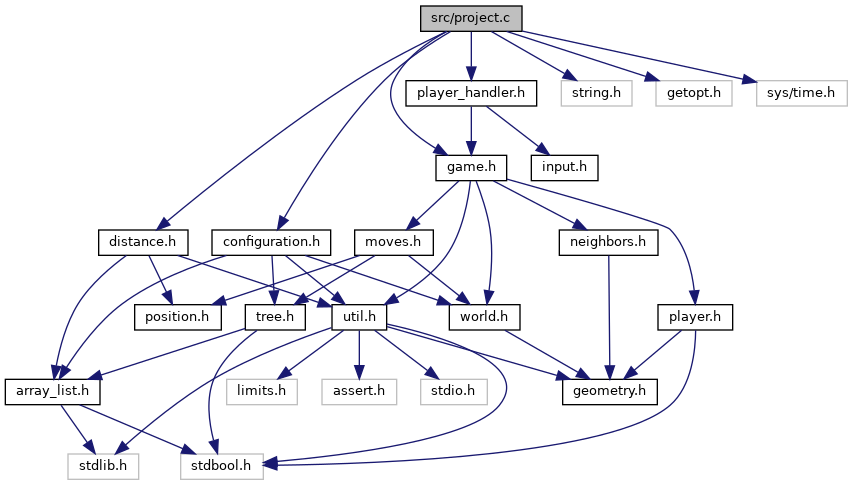
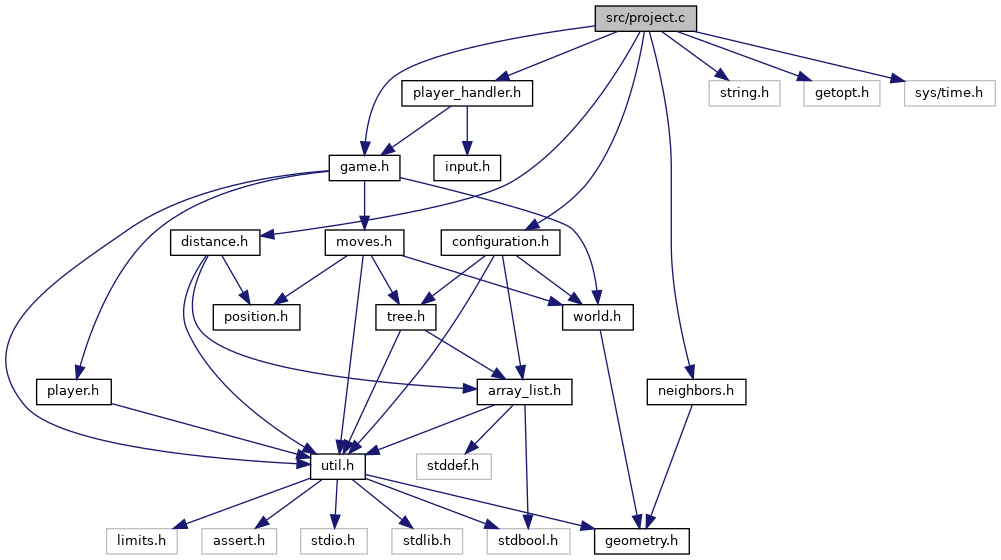
updated dep geah and more text

diff --git a/rapport/organisation.tex b/rapport/organisation.tex
@@ -72,3 +72,46 @@ des pointeurs vers le dernier et premier élément de la liste, cela nous permet
 qui peut fonctionner comme une pile et une file en temps constant. Nous avions
 particulèrement besoin d'une file pour le parcours en largeur\textsuperscript{\ref{alg:BFS}}.
 \subsection{Structure des fichiers}
+
+Fichiers organisés en modules qui sont un couple .c et .h .  
+
+\subsubsection{Les modules élémentaires}
+
+Ces modules forment la base de la logique du programme. 
+
+\begin{itemize}
+    \item geometry : Gère les interactions avec le monde du jeu tel que placer ou récupèrer des pièces.
+    \item world : 
+    \item neighbors : Gère les fonctionnalités pour récupèrer les voisins d'une case.
+\end{itemize}
+
+world et neighbors dépendent de geometry.
+
+TODO more
+
+\subsubsection{Le module util}
+
+Nous avons décidé d'utiliser un module \emph{util} dont la majorité des autres modules include. 
+Ce module contient les interfaces système comme \emph{stdio.h}, des définitions comme \emph{limit.h},
+des définitions de type que nous utilisons dans l'ensemble du code tel que \emph{uint} pour représenter
+le type \emph{unsigned int} ou des structures ainsi que des fonctions d'erreur. Nous avons pas eu le temps
+mais les fonctions d'erreur auraient pu avoir leur propre module \emph{erreur} afin d'avoir une meilleur organisation.
+
+Notre choix de l'utilisation de ce module est de pouvoir enrichir les fichiers élémentaire que nous ne pouvons pas
+pas modifier ainsi que d'avoir à seulement inclure un fichier en en-tête des autres.  
+
+
+
+distance
+moves
+configuration
+game
+player
+input
+player\_handler
+
+projet
+
+
+
+
